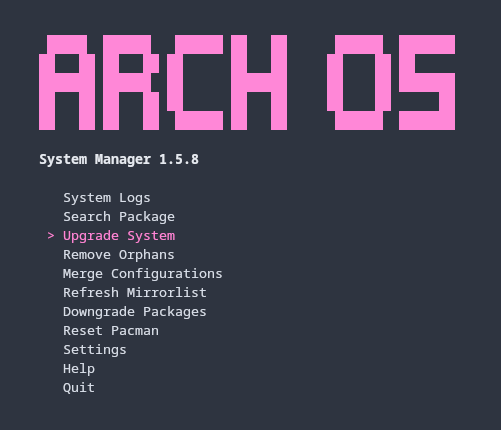
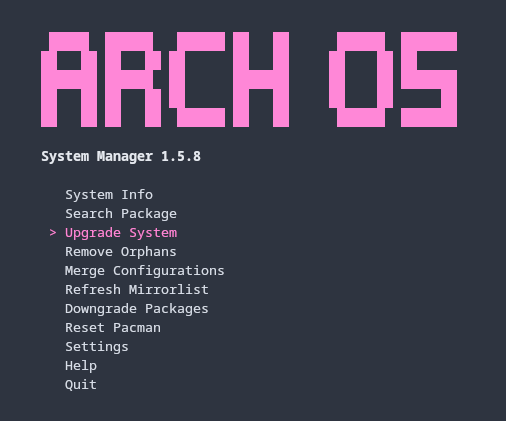
cleanup

diff --git a/docs/README.md b/docs/README.md
@@ -79,7 +79,7 @@ arch-os [--kitty | -k]              Open main menu
 arch-os [--kitty | -k] help         Open help page
 arch-os [--kitty | -k] version      Print Arch OS Manager version
 arch-os [--kitty | -k] settings     Edit settings
-arch-os [--kitty | -k] logs         Show system logs
+arch-os [--kitty | -k] info         Show system logs
 arch-os [--kitty | -k] search       Search & manage package (pacman, aur)
 arch-os [--kitty | -k] upgrade      System upgrade (news, pacdiff, pacman, aur, flatpak)
 arch-os [--kitty | -k] orphans      Remove orphaned packages (pacman, aur, flatpak)
@@ -142,11 +142,11 @@ dconf write /org/gnome/shell/extensions/arch-update/package-manager "'arch-os --
 
 <sub><b>This screenshots may outdated.</b></sub>
 
-<p><img src="./screenshots/uptodate.png"></p>
+<p><img src="./screenshots/info.png"></p>
 <p><img src="./screenshots/upgrade.png"></p>
+<p><img src="./screenshots/uptodate.png"></p>
 <p><img src="./screenshots/search.png"></p>
 <p><img src="./screenshots/refresh.png"></p>
-<p><img src="./screenshots/help.png"></p>
 
 </div>
 
